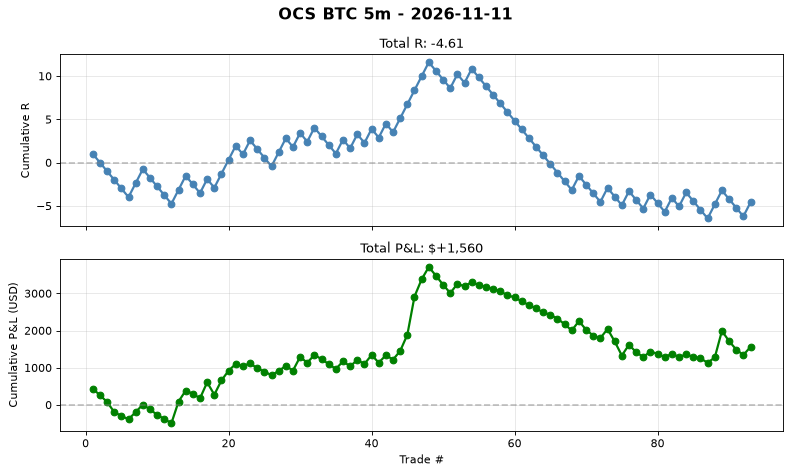
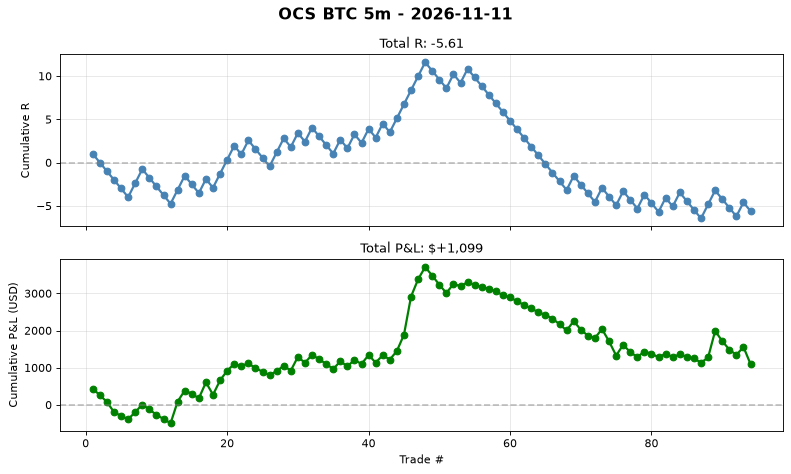
auto(ocs-btc): signal log 2026-11-10T21:58 trades=94

diff --git a/automation/reports/ocs_btc_5m/daily/2026-11-11.md b/automation/reports/ocs_btc_5m/daily/2026-11-11.md
@@ -2,4 +2,4 @@
 
 **No trades today.**
 
-Cumulative stats: 93 trades | WR 36.6% | avg R -0.05
+Cumulative stats: 94 trades | WR 36.2% | avg R -0.06
